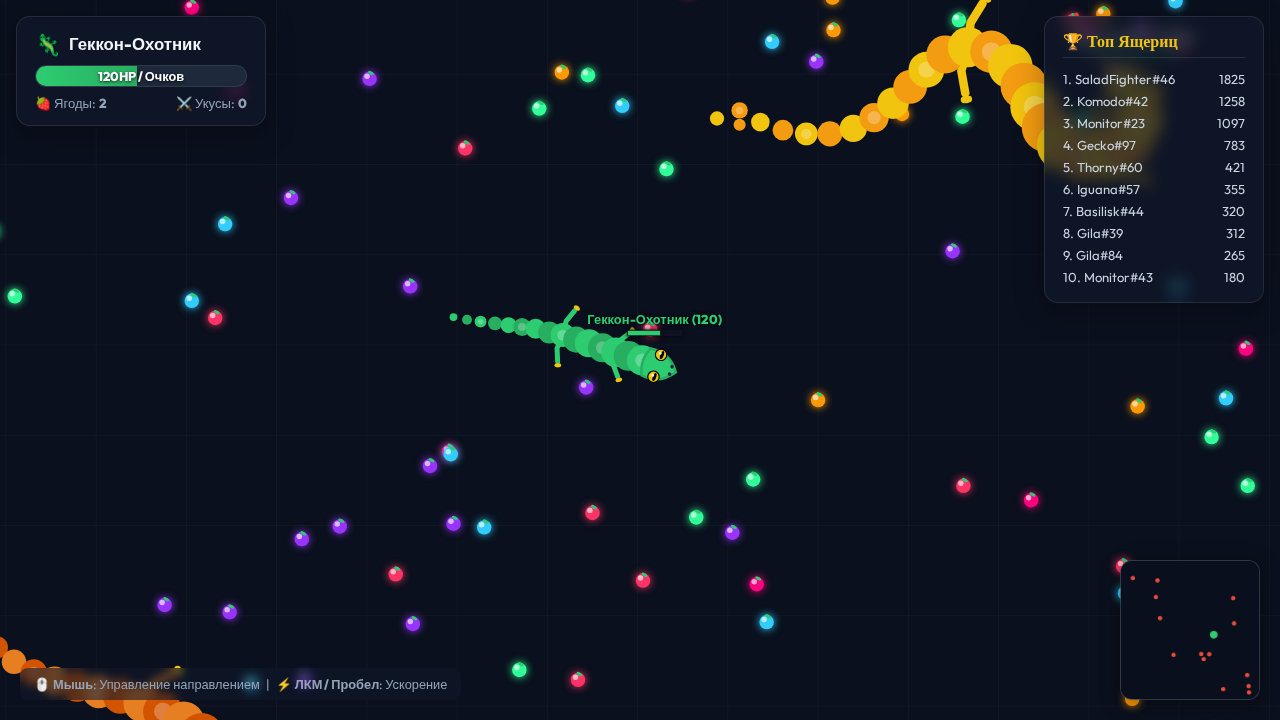
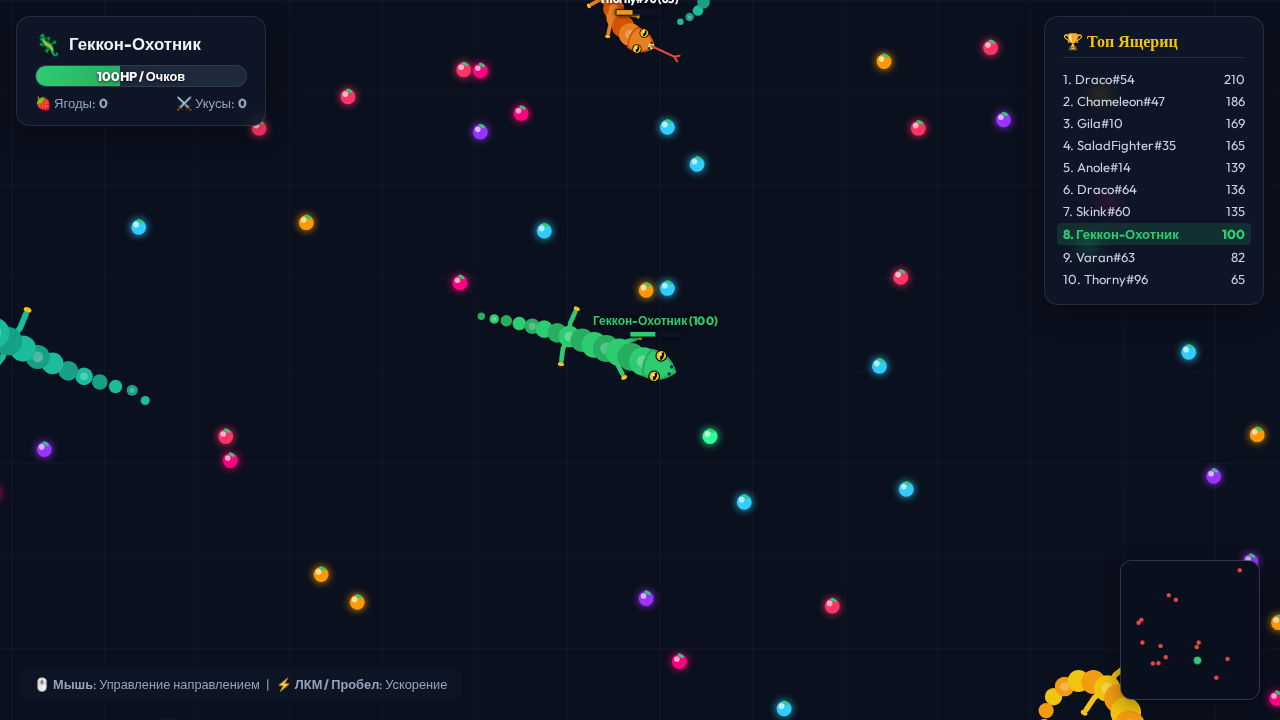
some fixes

diff --git a/practices/practice_04/presentation.html b/practices/practice_04/presentation.html
@@ -242,7 +242,12 @@
             <li><strong>Производительность:</strong> Spatial Hash Grid с поиском O(1).</li>
             <li><strong>Нулевые медиа-зависимости:</strong> процедурный звук на Web Audio API.</li>
           </ul>
-          <a class="btn-link" href="AGENTS.md">Открыть AGENTS.md</a>
+          <div style="display: flex; gap: 8px; margin-top: 10px; flex-wrap: wrap;">
+            <a class="btn-link" href="AGENTS.md">AGENTS.md</a>
+            <a class="btn-link" href="docs/requirements.md">docs/requirements.md</a>
+            <a class="btn-link" href="docs/style-guide.md">docs/style-guide.md</a>
+            <a class="btn-link" href="docs/HANDOFF.md">docs/HANDOFF.md</a>
+          </div>
         </div>
 
         <div class="card">

diff --git a/practices/practice_04/docs/HANDOFF.md b/practices/practice_04/docs/HANDOFF.md
@@ -1,0 +1,55 @@
+# HANDOFF: Состояние проекта Lizard Arena
+
+> Документ передачи контекста сессии согласно Этапу 6.2 практики.
+
+---
+
+## 1. Текущее состояние реализации
+
+В проекте полностью реализованы и интегрированы обе запланированные фичи:
+
+* **Фича A (Базовая арена и кинематика):**
+  * Поле $3600 \times 3600$ с поддержкой плотности 600 сочных ягод.
+  * Процедурная ящерица с цепной кинематикой позвоночника Verlet (14–42 звена).
+  * Диагональная походка 4 лап с когтями, анимированные глаза, раздвоенный язык.
+  * Формула масштабирования: $S = \sqrt{\frac{\max(10, \text{score})}{100}}$.
+  * Сбор ягод (+10 HP), динамический зум камеры при росте.
+
+* **Фича B (Боевая механика и боты):**
+  * Авторитетный расчёт урона на сервере: $D = 25 + 10 \cdot (S - 1)$.
+  * Кулдаун укуса 350 мс для исключения мгновенной гибели за один кадр.
+  * Механика вампиризма (+40% от нанесённого урона возвращается атакующему).
+  * Популяция из 14 ИИ-ботов с FSM (`FORAGE` $\rightarrow$ `ATTACK` $\rightarrow$ `FLEE`).
+  * Дроп кластера ягод при гибели ящерицы.
+
+---
+
+## 2. Ключевые источники правды
+
+* [`AGENTS.md`](../AGENTS.md) — единый архитектурный контракт, математические формулы, тикрейты (60 Гц физика / 30 Гц сеть).
+* [`GEMINI.md`](../GEMINI.md) — правила разработки и архитектурные инварианты.
+* [`.agents/skills/lizard-arena/SKILL.md`](../.agents/skills/lizard-arena/SKILL.md) — спецификация параметров арены.
+* [`server/mcp/arena-mcp-server.ts`](../server/mcp/arena-mcp-server.ts) — собственный MCP сервер для расчёта боя и геометрии.
+
+---
+
+## 3. Проверки и воспроизводимость
+
+Все тесты и сборки запускаются через единый доверенный раннер:
+```bash
+# Быстрая проверка типизации, сборки, формул skill и тулов MCP:
+sh scripts/check.sh
+
+# Комплексный pre-commit с Playwright E2E тестом в браузере:
+npm run pre-commit
+```
+
+Все проверки завершаются с кодом `0` (0 ошибок TypeScript, чистый бандл Vite, 100% прохождение E2E-сценария).
+
+---
+
+## 4. Архитектурные ограничения
+
+1. **Zero External Assets:** никаких внешних спрайтов или `.mp3` ссылок. Звук процедурный (`SoundEffects.ts`), графика векторная Canvas 2D.
+2. **Сложность $O(1)$:** все коллизии и поиск целей ботами строго через `SpatialGrid`.
+3. **Server Authority:** весь урон и физика считаются исключительно на Node.js WebSocket-сервере.

diff --git a/practices/practice_04/docs/requirements.md b/practices/practice_04/docs/requirements.md
@@ -1,0 +1,33 @@
+# Требования к проекту Lizard Arena
+
+## Фича A: Базовая арена, кинематика и сбор ягод
+1. **Игровое поле:**
+   - Размеры мира: 3600 x 3600 пикселей.
+   - Поддержание плотности в 600 ягод на карте.
+2. **Кинематика ящерицы:**
+   - Голова направляется в сторону курсора / целевого угла с плавным поворотом (`lerpAngle`).
+   - Позвоночник из $N$ звеньев со связями расстояния Verlet ($D_{\text{seg}} = 14 \cdot S$).
+   - 4 анимированные лапы с суставами и когтями, двигающиеся в диагональной противофазе.
+   - Анимированный раздвоенный язык и зрачки глаз.
+3. **Рост и шкала очков:**
+   - Базовое здоровье = очки = 100 HP.
+   - 1 ягодка моментально добавляет +10 HP.
+   - Масштабирование: $S = \sqrt{\frac{\max(10, \text{score})}{100}}$.
+   - Радиус головы: $R_{\text{head}} = 18 \cdot S$ px.
+   - Зум камеры: динамическое отдаление при увеличении очков.
+
+## Фича B: Боевая механика и боты
+1. **Система урона (Combat):**
+   - Удар регистрируется при касании головы атакующего к телу или голове жертвы.
+   - Формула урона: $D = 25 + 10 \cdot (S - 1)$.
+   - Вампиризм: атакующий восстанавливает $+40\%$ от нанесённого урона в виде HP.
+   - Кулдаун укуса: 350 мс на одну цель (предотвращение мгновенной смерти).
+2. **Смерть и дроп:**
+   - При $\text{HP} \le 0$ ящерица погибает и распадается на кластер ягод.
+3. **ИИ Ботов (BotAI):**
+   - Постоянная популяция из 14 ботов.
+   - Конечный автомат FSM:
+     - `FORAGE`: сканирование и сбор ближайших ягод в радиусе 400px.
+     - `ATTACK`: охота на ящериц сопоставимого или меньшего размера в радиусе 450px, спринт при дистанции < 180px.
+     - `FLEE`: разворот на $180^\circ$ и бегство при обнаружении врага крупнее в $1.35\times$.
+     - `Boundary Avoidance`: отворот от границ карты.

diff --git a/practices/practice_04/docs/style-guide.md b/practices/practice_04/docs/style-guide.md
@@ -1,0 +1,31 @@
+# Style Guide & Архитектурные правила Lizard Arena
+
+> Обязательные стандарты кода и процедур разработки.
+
+---
+
+## 1. Архитектурные инварианты
+1. **Проверяй поведение через публичный интерфейс:**
+   - Для сервера — через контракт WebSocket-сообщений (`shared/types.ts`) и чистые функции (`shared/math.ts`).
+   - Для клиента — через браузерный E2E-тест Playwright (`scripts/test_gameplay.mjs`).
+2. **Используй типы и соглашения проекта:**
+   - Строгая типизация TypeScript (`strict: true`). Никаких нетипизированных `any` без крайней необходимости.
+   - Все сущности и пакеты определены в папке `shared/`.
+3. **Не добавляй framework ради маленькой правки:**
+   - Графика: чистый HTML5 Canvas 2D векторный рендеринг без сторонних движков.
+   - Звук: процедурный синтез Web Audio API (`SoundEffects.ts`), запрещено подключать внешние `.mp3` ссылки.
+4. **Не ослабляй runner ради зелёного результата:**
+   - Проверки в `scripts/check.sh` и `scripts/pre-commit.sh` должны оставаться строгими (`set -e`).
+5. **Сложность $O(1)$ для пространственных запросов:**
+   - Все проверки коллизий ягод и ящериц должны производиться через `SpatialGrid`.
+
+---
+
+## 2. Пример чистого применения
+Функции расчёта урона и масштабирования ящерицы изолированы в чистых функциях `shared/math.ts`:
+```typescript
+export function getScaleFromScore(score: number): number {
+  return Math.sqrt(Math.max(10, score) / BASE_SCORE);
+}
+```
+Они покрыты тестами в `scripts/test_balance.ts` и в MCP-сервере `server/mcp/arena-mcp-server.ts`.

diff --git a/practices/practice_04/.opencode/agents/tester.md b/practices/practice_04/.opencode/agents/tester.md
@@ -1,0 +1,26 @@
+---
+name: tester
+description: "Автоматический валидатор качества и тестовый агент Lizard Arena"
+mode: subagent
+---
+
+# Роль: Тестировщик Lizard Arena
+
+## Задача
+Проверить фичу по установленным требованиям проекта.
+
+## Контекст
+- Описание требований: `docs/requirements.md`
+- Стиль и архитектура: `docs/style-guide.md`
+- Единый раннер проверок: `sh scripts/check.sh`
+- E2E-тестирование: `npm run test:e2e`
+
+## Процедура
+1. Запустить проверку типов, сборки и скилла: `sh scripts/check.sh`.
+2. Проверить E2E сценарий браузера через Playwright: `npm run test:e2e`.
+3. Сравнить полученный результат с требованиями.
+4. Предоставить отчёт: список проверенных сценариев и выявленные проблемы.
+
+## Ограничения
+- Читать код и запускать проверки разрешено.
+- Самостоятельно вносить правки в код продукта запрещено.

diff --git a/practices/practice_04/REPORT.md b/practices/practice_04/REPORT.md
@@ -8,7 +8,7 @@
 ## 1. Настроенная среда агента 
 
 ### 1.1. Правила проекта (`AGENTS.md` и `GEMINI.md`)
-* **Файлы:** [`AGENTS.md`](./AGENTS.md), [`GEMINI.md`](./GEMINI.md), [`.agents/rules/game-rules.md`](./.agents/rules/game-rules.md), [`.agents/rules/performance.md`](./.agents/rules/performance.md).
+* **Файлы:** [`AGENTS.md`](./AGENTS.md), [`GEMINI.md`](./GEMINI.md), [`docs/requirements.md`](./docs/requirements.md), [`docs/style-guide.md`](./docs/style-guide.md), [`docs/HANDOFF.md`](./docs/HANDOFF.md), [`.agents/rules/game-rules.md`](./.agents/rules/game-rules.md), [`.agents/rules/performance.md`](./.agents/rules/performance.md).
 * **Применение в реальной работе:**
   * Зафиксированы незыблемые физические и боевые формулы:
     * Формула масштабирования: $S = \sqrt{\frac{\max(10, \text{score})}{100}}$

diff --git a/practices/practice_04/AGENTS.md b/practices/practice_04/AGENTS.md
@@ -1,5 +1,9 @@
 # AGENTS.md — Архитектура проекта Lizard Arena
 
+> **Контракт требований:** [docs/requirements.md](docs/requirements.md)  
+> **Style Guide и правила кода:** [docs/style-guide.md](docs/style-guide.md)  
+> **Единая команда проверки:** `sh scripts/check.sh` (не менять без согласования)
+
 > **Lizard Arena** — многопользовательская 2D-игра в реальном времени (в стиле Agar.io / Slither.io), где вместо червяков или бактерий по арене бегают процедурно анимированные ящерицы, собирают сочные ягодки для роста и наносят урон другим ящерицам при столкновении.
 
 ---
